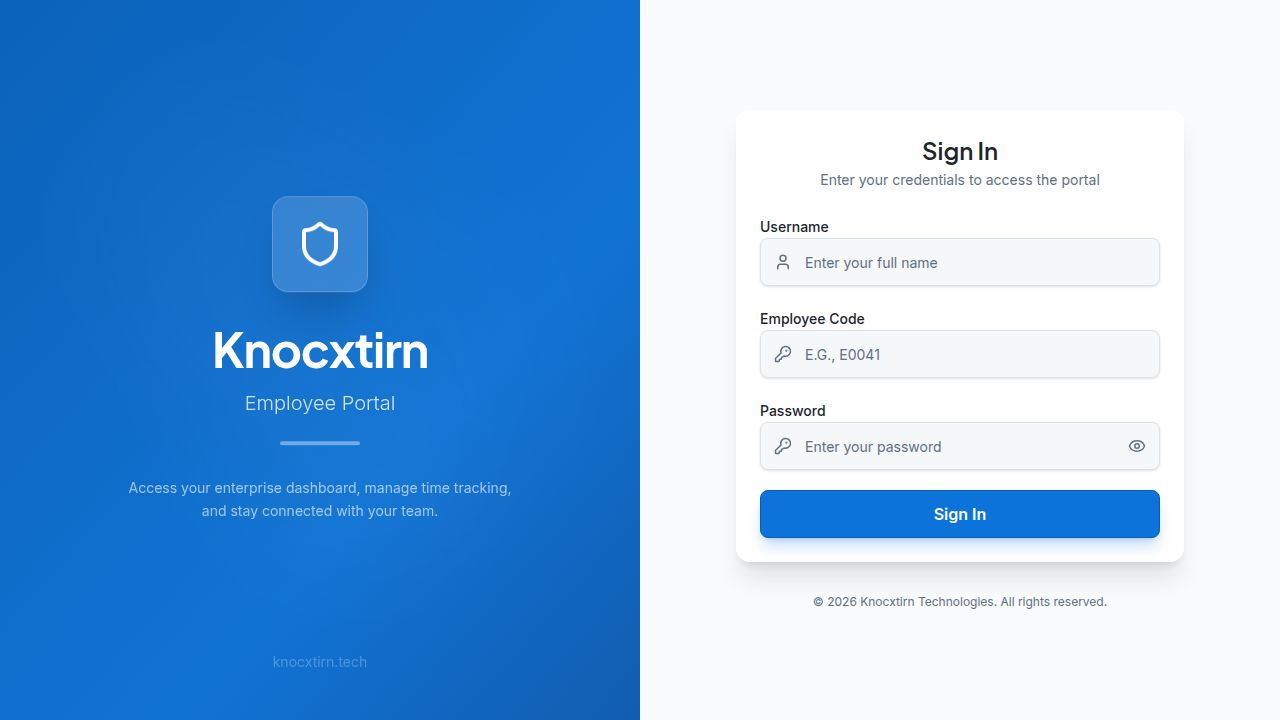
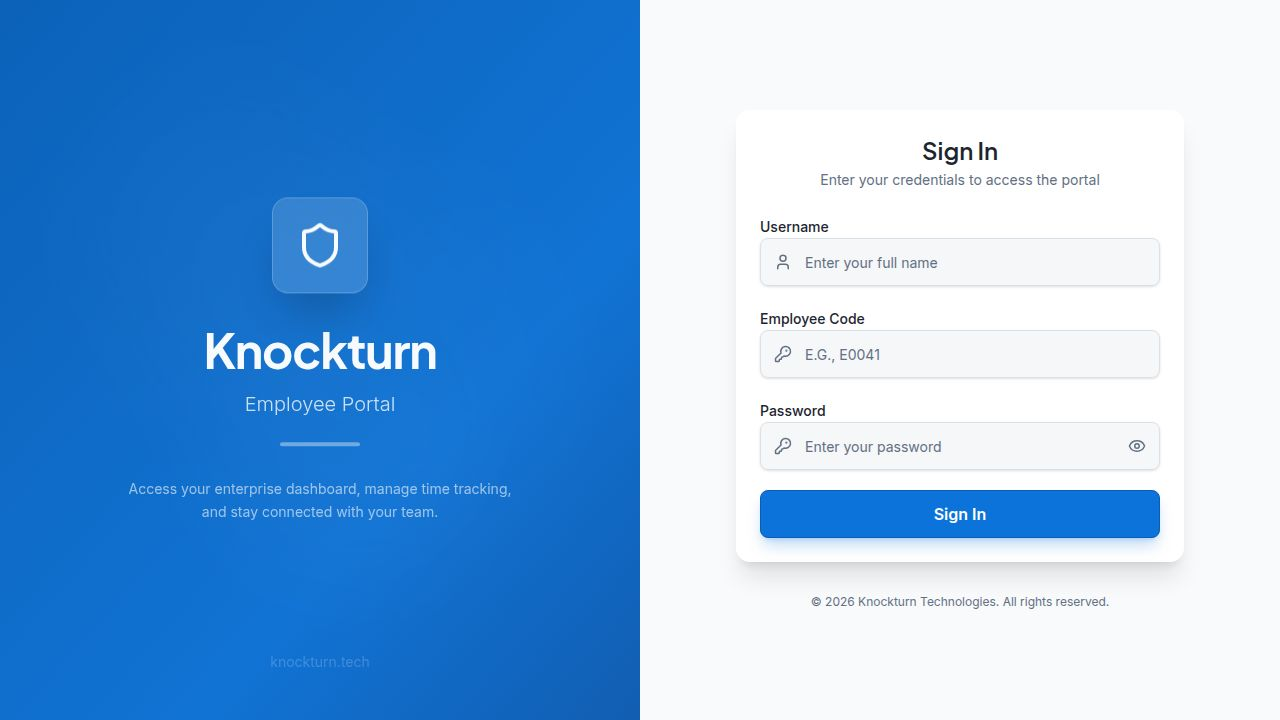
Update company name to Knockturn across the application
Update all instances of "Knocxturn" to "Knockturn" in HTML meta tags, component titles, and domain references.

Replit-Commit-Author: Agent
Replit-Commit-Session-Id: 4ece080c-53f4-4544-8402-97ac522f4067
Replit-Commit-Checkpoint-Type: full_checkpoint
Replit-Commit-Event-Id: 53a92a1a-c4df-4096-a3b0-5778064aebab
Replit-Commit-Screenshot-Url: https://storage.googleapis.com/screenshot-production-us-central1/8680c1db-8c11-45c1-8dfe-af6217793811/4ece080c-53f4-4544-8402-97ac522f4067/QjC23W2
Replit-Helium-Checkpoint-Created: true

diff --git a/client/index.html b/client/index.html
@@ -4,17 +4,17 @@
     <meta charset="UTF-8" />
     <meta name="viewport" content="width=device-width, initial-scale=1.0, maximum-scale=1" />
 
-    <meta property="og:title" content="Knocxturn - Employee Portal" />
-    <meta property="og:description" content="Enterprise employee management portal for knocxturn.tech" />
+    <meta property="og:title" content="Knockturn - Employee Portal" />
+    <meta property="og:description" content="Enterprise employee management portal for knockturn.tech" />
     <meta property="og:type" content="website" />
     <meta property="og:image" content="https://replit.com/public/images/opengraph.png" />
     <meta name="twitter:card" content="summary_large_image" />
     <meta name="twitter:site" content="@replit" />
-    <meta name="twitter:title" content="Knocxturn - Employee Portal" />
-    <meta name="twitter:description" content="Enterprise employee management portal for knocxturn.tech" />
+    <meta name="twitter:title" content="Knockturn - Employee Portal" />
+    <meta name="twitter:description" content="Enterprise employee management portal for knockturn.tech" />
     <meta name="twitter:image" content="https://replit.com/public/images/opengraph.png" />
 
-    <title>Knocxturn - Employee Portal</title>
+    <title>Knockturn - Employee Portal</title>
     <link rel="icon" type="image/png" href="/favicon.png" />
     <link rel="preconnect" href="https://fonts.googleapis.com">
     <link rel="preconnect" href="https://fonts.gstatic.com" crossorigin>

diff --git a/client/src/pages/login.tsx b/client/src/pages/login.tsx
@@ -88,7 +88,7 @@ export default function Login() {
             </div>
             
             <h1 className="font-display text-5xl font-bold mb-4 tracking-tight">
-              Knocxturn
+              Knockturn
             </h1>
             <p className="text-xl text-white/80 font-light mb-2">
               Employee Portal
@@ -106,7 +106,7 @@ export default function Login() {
             transition={{ delay: 0.5, duration: 0.8 }}
             className="absolute bottom-12 text-white/50 text-sm"
           >
-            knocxturn.tech
+            knockturn.tech
           </motion.div>
         </div>
       </div>
@@ -122,7 +122,7 @@ export default function Login() {
             <div className="w-16 h-16 mx-auto bg-primary/10 rounded-xl flex items-center justify-center mb-4">
               <Shield className="w-8 h-8 text-primary" />
             </div>
-            <h1 className="font-display text-3xl font-bold text-foreground">Knocxturn</h1>
+            <h1 className="font-display text-3xl font-bold text-foreground">Knockturn</h1>
             <p className="text-muted-foreground mt-1">Employee Portal</p>
           </div>
 
@@ -233,7 +233,7 @@ export default function Login() {
           </Card>
 
           <p className="text-center text-xs text-muted-foreground mt-8">
-            © 2026 Knocxturn Technologies. All rights reserved.
+            © 2026 Knockturn Technologies. All rights reserved.
           </p>
         </motion.div>
       </div>

diff --git a/client/src/pages/dashboard.tsx b/client/src/pages/dashboard.tsx
@@ -135,7 +135,7 @@ export default function Dashboard() {
                 <Building2 className="w-5 h-5 text-primary-foreground" />
               </div>
               <div>
-                <h1 className="font-display text-lg font-bold text-foreground">Knocxturn</h1>
+                <h1 className="font-display text-lg font-bold text-foreground">Knockturn</h1>
                 <p className="text-xs text-muted-foreground -mt-0.5">Employee Portal</p>
               </div>
             </div>
@@ -275,7 +275,7 @@ export default function Dashboard() {
           className="mt-12 text-center"
         >
           <p className="text-sm text-muted-foreground">
-            © 2026 Knocxturn Technologies • knocxturn.tech
+            © 2026 Knockturn Technologies • knockturn.tech
           </p>
         </motion.div>
       </main>
